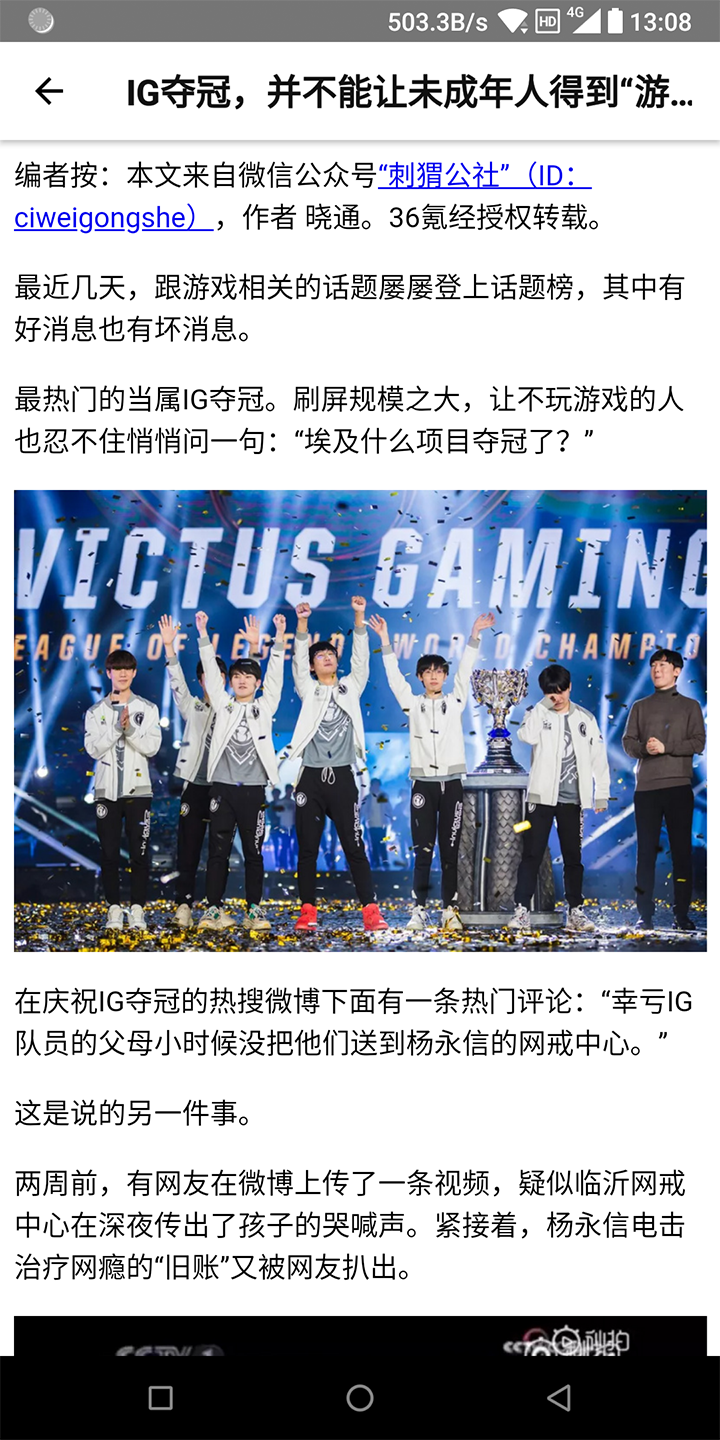
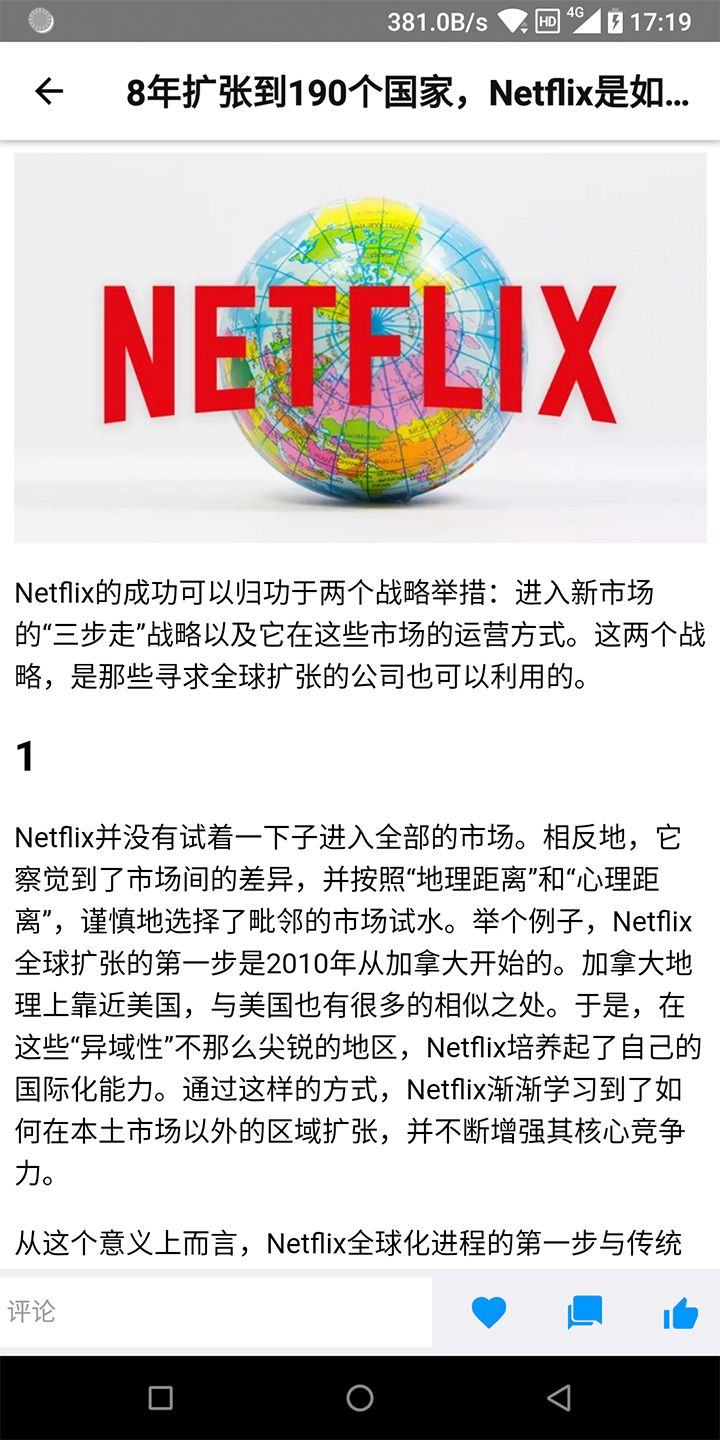
Some commit

diff --git a/app/Detail.js b/app/Detail.js
@@ -1,5 +1,12 @@
 import React from 'react';
-import { WebView } from 'react-native';
+import { 
+    WebView,
+    View,
+    TextInput,
+    Text,
+    StyleSheet
+} from 'react-native';
+import Icon from 'react-native-vector-icons/Ionicons';
 
 export default class Detail extends React.Component {
     // 在标题中使用参数
@@ -16,10 +23,53 @@ export default class Detail extends React.Component {
         const injectjs = "javascript:(function(){var objs=document.getElementsByTagName('img');for(var i=0;i<objs.length;i++){var img=objs[i];img.style.maxWidth='100%';img.style.height='auto';}})()";
 
         return(
-            <WebView
-                originWhitelist={['*']}
-                source={{html: content}}
-                injectedJavaScript={injectjs} />
+            <View style={{flex: 1}}>
+                <WebView
+                    originWhitelist={['*']}
+                    source={{html: content}}
+                    injectedJavaScript={injectjs}
+                    style={{marginBottom: 50}} />
+                <View style={styles.bottomBar}>
+                    <TextInput
+                        placeholder="评论"
+                        style={styles.bottomInput}/>
+                    <View style={styles.bottomIcons}>
+                        <Icon name="md-heart" style={styles.bottomIcon}/>
+                        <Icon name="md-chatbubbles" style={styles.bottomIcon}/>
+                        <Icon name="md-thumbs-up" style={styles.bottomIcon}/>
+                    </View>
+                </View>
+            </View>
         )
     }
 }
+
+const styles = StyleSheet.create({
+    bottomBar: {
+        position: 'absolute',
+        bottom: 0,
+        width: '100%',
+        backgroundColor: '#EFEFF4',
+        borderColor: '#DEDEE3',
+        borderTopWidth: 0.8,
+        flexDirection: 'row',
+        justifyContent: 'center',
+        alignItems: 'center'
+    },
+    bottomInput: {
+        width: '60%',
+        height: 40,
+        margin: 5,
+        backgroundColor: 'white'
+    },
+    bottomIcons: {
+        width: '40%',
+        flexDirection: 'row',
+        justifyContent: 'space-around',
+        alignItems: 'center'
+    },
+    bottomIcon: {
+        fontSize: 24,
+        color: '#0098FD'
+    }
+})

diff --git a/app/Profile.js b/app/Profile.js
@@ -54,13 +54,13 @@ export default class Profile extends Component {
                         [this.state.selected]: {selected: true}
                     }}/>
                     <ActionButton buttonColor='rgba(52,152,219,1)' offsetX={16} offsetY={16}>
-                        <ActionButton.Item buttonColor='#1abc9c' title="New Task" onPress={() => this.onActionButtonItemPress()}>
+                        <ActionButton.Item buttonColor='#1abc9c' title="New Task" onPress={() => this.onActionButtonItemPress(1)}>
                             <Icon name="md-create" style={styles.actionButtonIcon}/>
                         </ActionButton.Item>
-                        <ActionButton.Item buttonColor='#e74c3c' title="Notifications" onPress={() => this.onActionButtonItemPress()}>
+                        <ActionButton.Item buttonColor='#e74c3c' title="Notifications" onPress={() => this.onActionButtonItemPress(2)}>
                             <Icon name="md-notifications" style={styles.actionButtonIcon}/>
                         </ActionButton.Item>
-                        <ActionButton.Item buttonColor='#9b59b6' title="All Tasks" onPress={() => this.onActionButtonItemPress()}>
+                        <ActionButton.Item buttonColor='#9b59b6' title="All Tasks" onPress={() => this.onActionButtonItemPress(3)}>
                             <Icon name="md-done-all" style={styles.actionButtonIcon}/>
                         </ActionButton.Item>
                     </ActionButton>
@@ -74,8 +74,8 @@ export default class Profile extends Component {
         });
     }
 
-    onActionButtonItemPress() {
-
+    onActionButtonItemPress(index) {
+        
     }
 
     componentDidMount() {

diff --git a/app/About.js b/app/About.js
@@ -15,7 +15,7 @@ import Icon from 'react-native-vector-icons/Ionicons';
 let exitTime = 0;
 
 const sectionData = [
-    { key: 0, title: "个人", data: [[{name: "账号信息", icon: 'md-person'}, {name: "修改密码", icon: 'md-key'}, {name: "意见反馈", icon: 'md-send'}, {name: "我的收藏", icon: 'md-star-outline'}]] },
+    { key: 0, title: "个人", data: [[{name: "账号信息", icon: 'md-person'}, {name: "修改密码", icon: 'md-key'}, {name: "意见反馈", icon: 'md-paper-plane'}, {name: "我的收藏", icon: 'md-star-outline'}]] },
     { key: 1, title: "商城", data: [[{name: "官方网站", icon: 'md-home'}, {name: "活动专区", icon: 'md-heart-empty'}, {name: "积分兑换", icon: 'md-gift'}]] },
     { key: 2, title: "关于", data: [[{name: "使用帮助", icon: 'md-help'}, {name: "开源许可", icon: 'md-share'}]] }
 ];

diff --git a/app/Main.js b/app/Main.js
@@ -61,6 +61,7 @@ const TabStack = createBottomTabNavigator({ // 取代TabNavigator
         }
     },
     // swipeEnabled: true, // 是否允许滑动（注：createBottomTabNavigator不支持该选项）
+    lazy: true,
     backBehavior: 'none' // 返回键是否返回初始Tab页，可选“initalRoute”和“none”，默认“initalRoute”
 });
 

diff --git a/app/Splash.js b/app/Splash.js
@@ -38,7 +38,7 @@ export default class Splash extends Component<Props> {
     }, 2000);
   };
 
-  // 组件将要移除时清除定时器
+  // 组件将移除时清除定时器
   componentWillUnmount() {
       this.timer && clearTimeout(this.timer);
   }

diff --git a/README.md b/README.md
@@ -1,6 +1,6 @@
 # HelloWorld
 
-A Hello World sample for [React Native](https://reactnative.cn/).
+A Hello World demo for [React Native](https://reactnative.cn/).
 
 ## Screenshot
 
@@ -22,4 +22,4 @@ A Hello World sample for [React Native](https://reactnative.cn/).
 
 ## Data source
 
-<img alt="DCloud" src="http://img-cdn-qiniu.dcloud.net.cn/logo.svg" width="120" href="http://spider.dcloud.net.cn/api/news">
+<img alt="DCloud" src="http://img-cdn-qiniu.dcloud.net.cn/dcloud_logo.png" width="120" href="http://spider.dcloud.net.cn/api/news">
